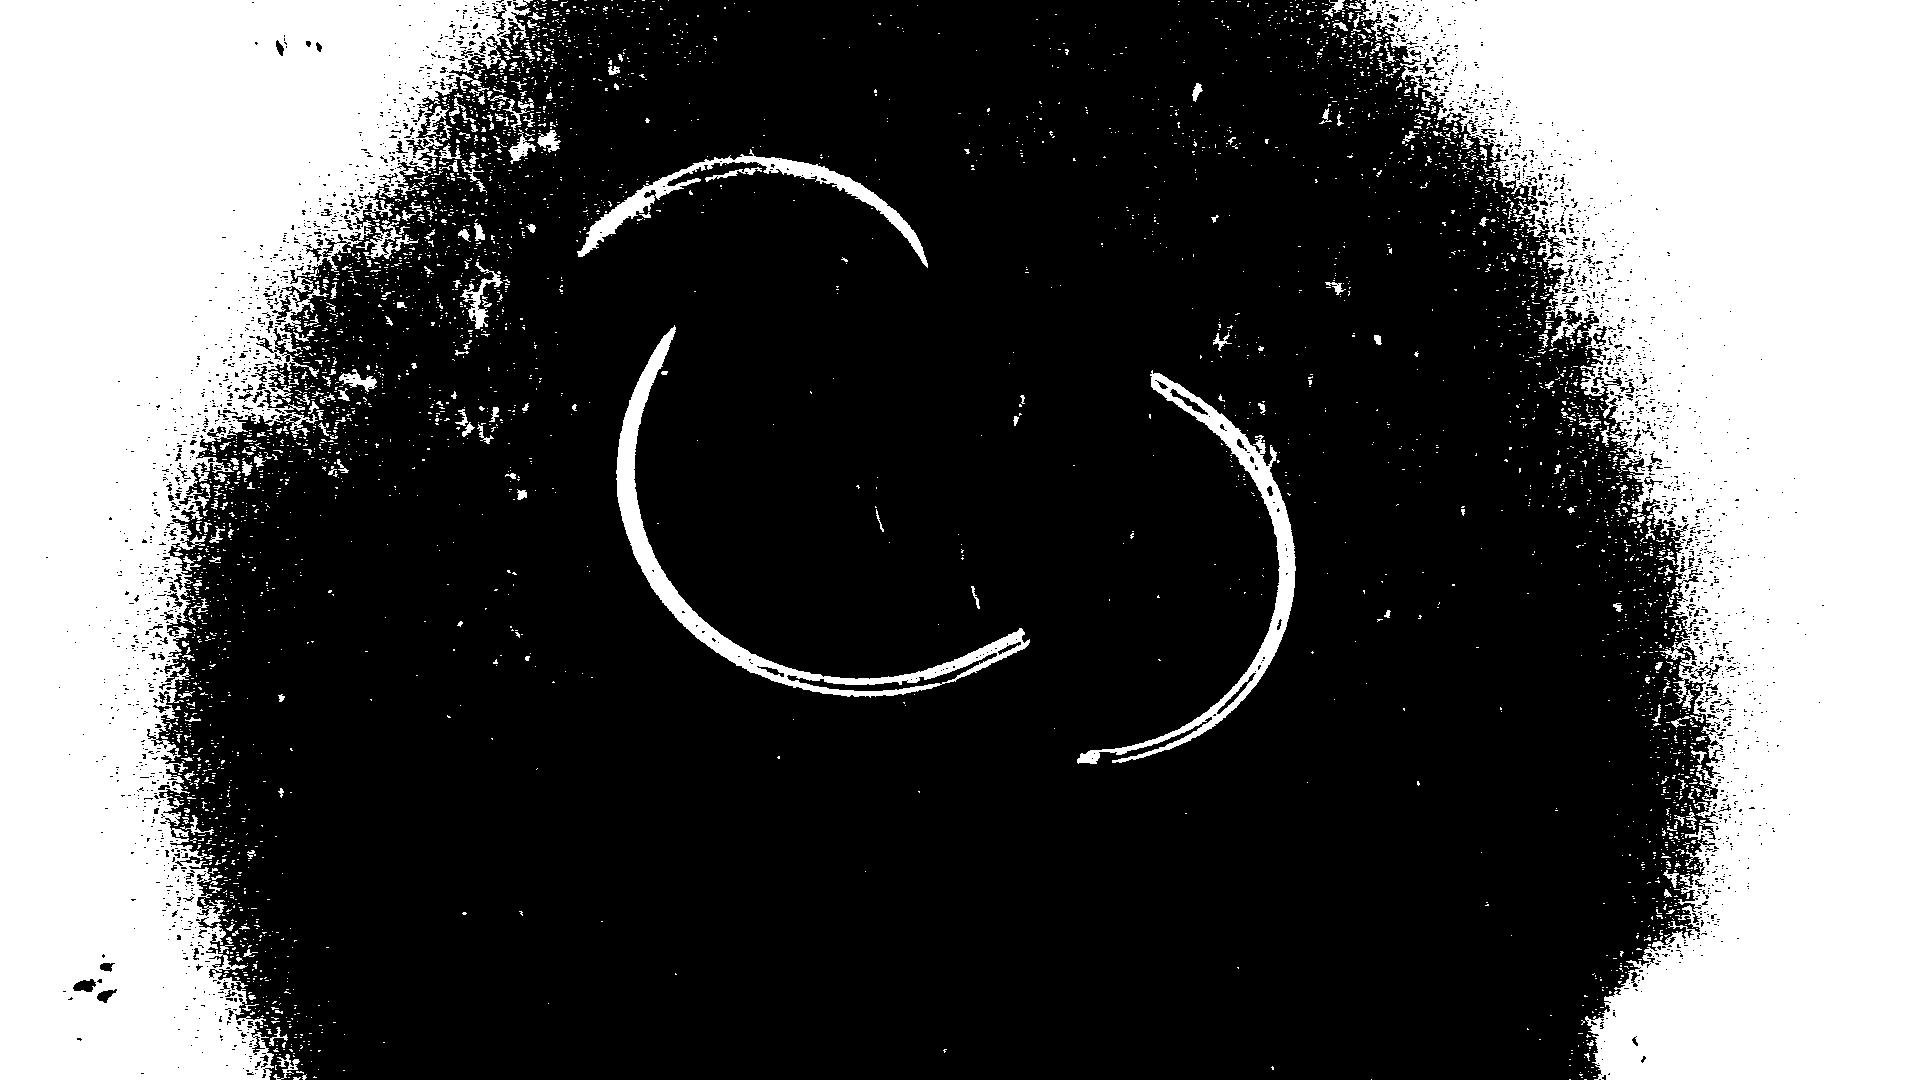
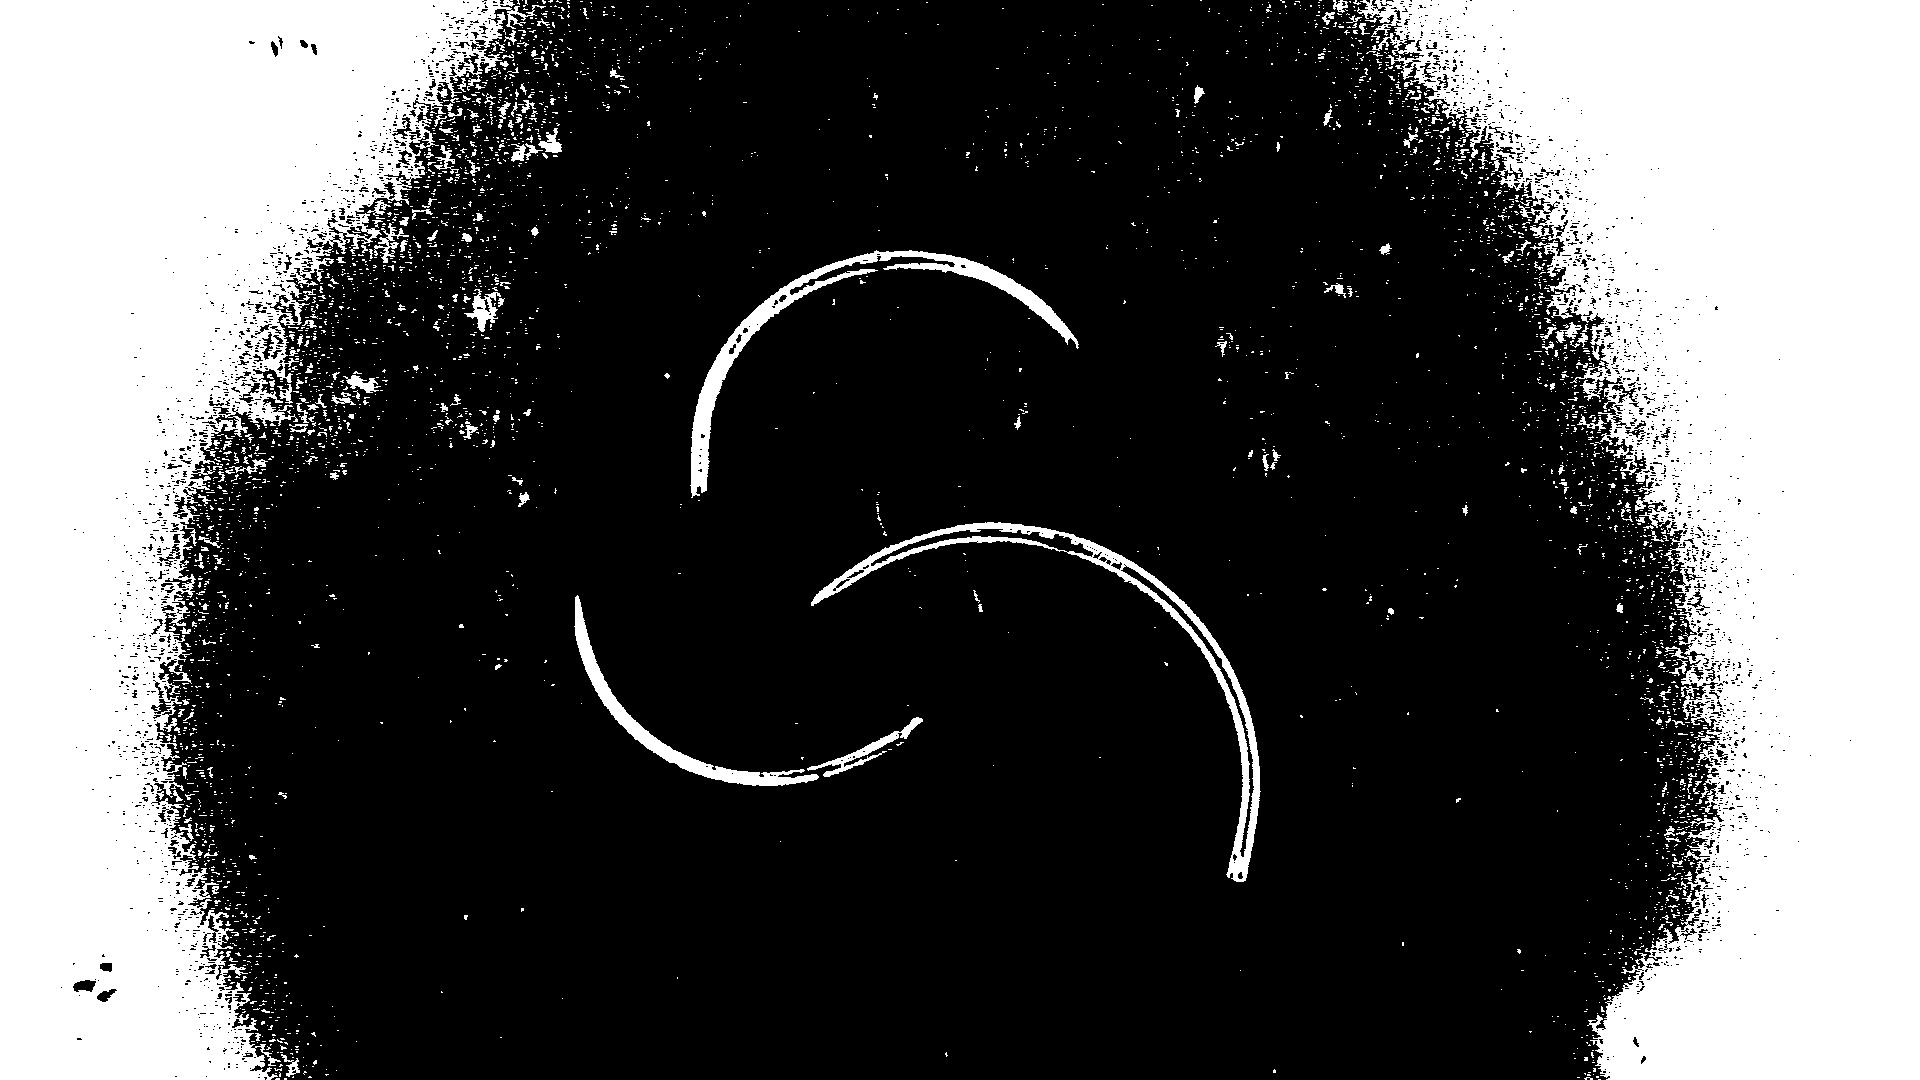
Pulling from laptop

diff --git a/stereo_needle_robust.py b/stereo_needle_robust.py
@@ -13,7 +13,7 @@ import transform
 import read_camera
 
 USE_SAVED_IMAGES = False
-USE_SPLIT_VIEW = True
+USE_SPLIT_VIEW = False
 
 def get_stereo_transform():
     endoscope_chesspts = list(read_camera.load_all('calibration/endoscope_chesspts.p'))
@@ -222,7 +222,7 @@ if __name__ == "__main__":
             right = cv2.resize(a.right_image, (0, 0), fx=0.5, fy=0.5)
             frame = np.hstack((left, right))
         else:
-            frame = a.right_image
+            frame = a.left_image
             if frame is None:
                 continue
         cv2.imshow('frame', frame)
